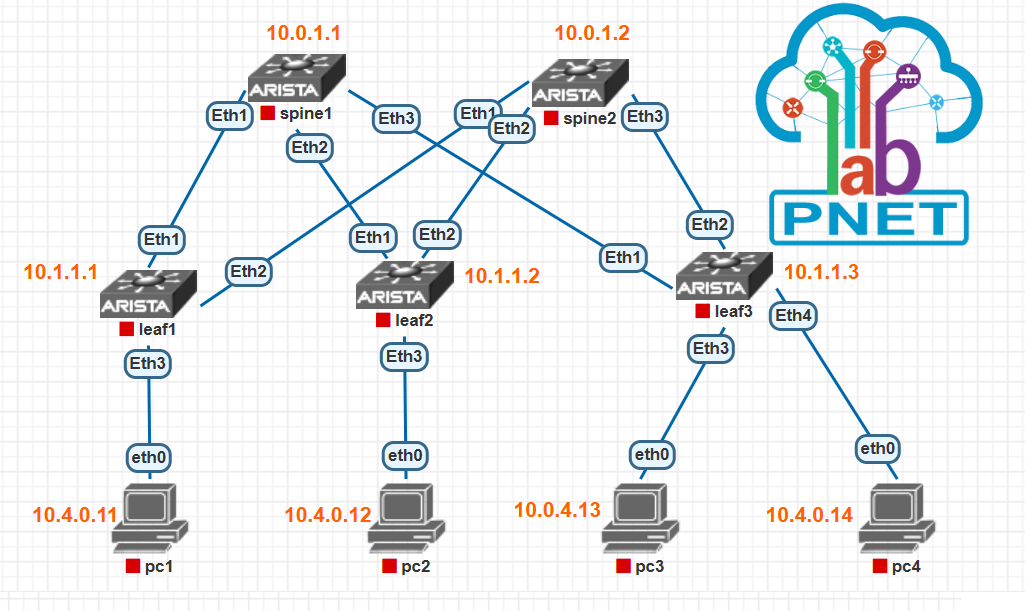
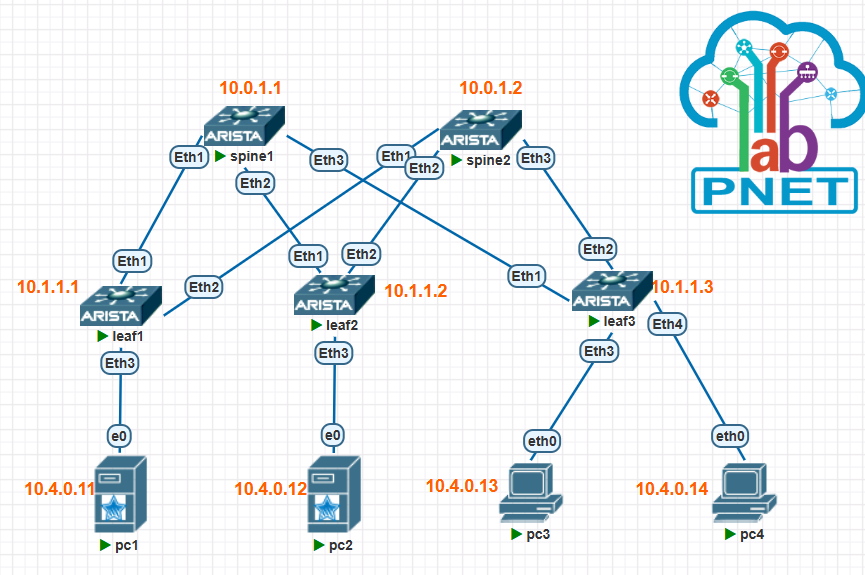
Решение hw04

Changed region(s): [[0.0, 0.0, 1.0, 0.9757], [0.4994, 0.3843, 0.5306, 0.4139]]

diff --git a/hw05/hw05.md b/hw05/hw05.md
@@ -102,28 +102,32 @@ ip routing
 !
 router bgp 65001
    router-id 10.0.1.1
-   maximum-paths 4
-   neighbor LEAF_PEERS peer group
-   neighbor LEAF_PEERS remote-as 65001
-   neighbor LEAF_PEERS next-hop-unchanged
-   neighbor LEAF_PEERS update-source Loopback1
-   neighbor LEAF_PEERS bfd
-   neighbor LEAF_PEERS ebgp-multihop 3
-   neighbor LEAF_PEERS route-reflector-client
-   neighbor LEAF_PEERS send-community extended
-   neighbor 10.1.1.1 peer group LEAF_PEERS
+   no bgp default ipv4-unicast
+   distance bgp 20 200 200
+   neighbor LEAF peer group
+   neighbor LEAF remote-as 65001
+   neighbor LEAF next-hop-unchanged
+   neighbor LEAF update-source Loopback1
+   neighbor LEAF bfd
+   neighbor LEAF ebgp-multihop 2
+   neighbor LEAF route-reflector-client
+   neighbor LEAF send-community extended
+   neighbor 10.1.1.1 peer group LEAF
    neighbor 10.1.1.1 remote-as 65101
-   neighbor 10.1.1.2 peer group LEAF_PEERS
+   neighbor 10.1.1.1 description leaf1
+   neighbor 10.1.1.2 peer group LEAF
    neighbor 10.1.1.2 remote-as 65102
-   neighbor 10.1.1.3 peer group LEAF_PEERS
+   neighbor 10.1.1.2 description leaf2
+   neighbor 10.1.1.3 peer group LEAF
    neighbor 10.1.1.3 remote-as 65103
+   neighbor 10.1.1.3 description leaf3
    !
    address-family evpn
-      neighbor LEAF_PEERS activate
-      neighbor LEAF_PEERS next-hop-unchanged
+      neighbor LEAF activate
 !
 router ospf 1
    router-id 10.0.1.1
+   bfd default
    passive-interface default
    no passive-interface Ethernet1
    no passive-interface Ethernet2
@@ -133,6 +137,7 @@ router ospf 1
 !
 end
 spine1#
+
   ```
 </details>
 
@@ -140,7 +145,7 @@ spine1#
   <summary>spine2 configuration</summary>
 
   ```cisco
- spine2#sh run
+spine2#sh run
 ! Command: show running-config
 ! device: spine2 (vEOS-lab, EOS-4.27.0F)
 !
@@ -189,24 +194,28 @@ ip routing
 !
 router bgp 65001
    router-id 10.0.1.2
-   maximum-paths 4
-   neighbor LEAF_PEERS peer group
-   neighbor LEAF_PEERS remote-as 65001
-   neighbor LEAF_PEERS next-hop-unchanged
-   neighbor LEAF_PEERS update-source Loopback1
-   neighbor LEAF_PEERS ebgp-multihop 3
-   neighbor LEAF_PEERS route-reflector-client
-   neighbor LEAF_PEERS send-community extended
-   neighbor 10.1.1.1 peer group LEAF_PEERS
+   no bgp default ipv4-unicast
+   distance bgp 20 200 200
+   neighbor LEAF peer group
+   neighbor LEAF remote-as 65001
+   neighbor LEAF next-hop-unchanged
+   neighbor LEAF update-source Loopback1
+   neighbor LEAF bfd
+   neighbor LEAF ebgp-multihop 2
+   neighbor LEAF route-reflector-client
+   neighbor LEAF send-community extended
+   neighbor 10.1.1.1 peer group LEAF
    neighbor 10.1.1.1 remote-as 65101
-   neighbor 10.1.1.2 peer group LEAF_PEERS
+   neighbor 10.1.1.1 description leaf1
+   neighbor 10.1.1.2 peer group LEAF
    neighbor 10.1.1.2 remote-as 65102
-   neighbor 10.1.1.3 peer group LEAF_PEERS
+   neighbor 10.1.1.2 description leaf2
+   neighbor 10.1.1.3 peer group LEAF
    neighbor 10.1.1.3 remote-as 65103
+   neighbor 10.1.1.3 description leaf3
    !
    address-family evpn
-      neighbor LEAF_PEERS activate
-      neighbor LEAF_PEERS next-hop-unchanged
+      neighbor LEAF activate
 !
 router ospf 1
    router-id 10.0.1.2
@@ -220,6 +229,7 @@ router ospf 1
 !
 end
 spine2#
+
   ```
 </details>
 
@@ -249,7 +259,7 @@ hostname leaf1
 spanning-tree mode mstp
 !
 vlan 100
-   name CLIENTS
+   name pc
 !
 interface Ethernet1
    description spine1
@@ -269,12 +279,14 @@ interface Ethernet3
    switchport access vlan 100
 !
 interface Loopback1
+   description UNDERLAY
    ip address 10.1.1.1/32
    ip ospf area 0.0.0.0
 !
 interface Management1
 !
 interface Vlan100
+   description pc
    ip proxy-arp
    ip address 10.4.0.1/16
 !
@@ -282,31 +294,32 @@ interface Vxlan1
    vxlan source-interface Loopback1
    vxlan udp-port 4789
    vxlan vlan 100 vni 100100
-   vxlan flood vtep 10.1.1.1 10.1.1.2 10.1.1.3
 !
 ip routing
 !
-arp 10.4.0.12 00:50:79:66:68:5d arpa
-!
 router bgp 65101
    router-id 10.1.1.1
-   maximum-paths 10
-   neighbor SPINE_PEERS peer group
-   neighbor SPINE_PEERS remote-as 65001
-   neighbor SPINE_PEERS update-source Loopback1
-   neighbor SPINE_PEERS bfd
-   neighbor SPINE_PEERS ebgp-multihop 2
-   neighbor 10.0.1.1 peer group SPINE_PEERS
-   neighbor 10.0.1.2 peer group SPINE_PEERS
-   redistribute connected
+   no bgp default ipv4-unicast
+   maximum-paths 4
+   neighbor SPINE peer group
+   neighbor SPINE remote-as 65001
+   neighbor SPINE update-source Loopback1
+   neighbor SPINE bfd
+   neighbor SPINE local-v4-addr 10.1.1.1
+   neighbor SPINE ebgp-multihop 4
+   neighbor SPINE send-community extended
+   neighbor 10.0.1.1 peer group SPINE
+   neighbor 10.0.1.1 description spine1
+   neighbor 10.0.1.2 peer group SPINE
+   neighbor 10.0.1.2 description spine2
    !
    vlan 100
       rd 10.1.1.1:100
-      route-target both 65001:100
+      route-target both 100:100100
       redistribute learned
    !
    address-family evpn
-      neighbor SPINE_PEERS activate
+      neighbor SPINE activate
 !
 router ospf 1
    router-id 10.1.1.1
@@ -319,7 +332,6 @@ router ospf 1
 !
 end
 leaf1#
-
   ```
 </details>
 
@@ -369,6 +381,7 @@ interface Ethernet3
    switchport access vlan 100
 !
 interface Loopback1
+   description UNDERLAY
    ip address 10.1.1.2/32
    ip ospf area 0.0.0.0
 !
@@ -386,26 +399,29 @@ interface Vxlan1
 !
 ip routing
 !
-arp 10.4.0.11 00:50:79:66:68:69 arpa
-!
 router bgp 65102
    router-id 10.1.1.2
-   maximum-paths 10
-   neighbor SPINE_PEERS peer group
-   neighbor SPINE_PEERS remote-as 65001
-   neighbor SPINE_PEERS update-source Loopback1
-   neighbor SPINE_PEERS bfd
-   neighbor SPINE_PEERS ebgp-multihop 2
-   neighbor 10.0.1.1 peer group SPINE_PEERS
-   neighbor 10.0.1.2 peer group SPINE_PEERS
+   no bgp default ipv4-unicast
+   maximum-paths 4
+   neighbor SPINE peer group
+   neighbor SPINE remote-as 65001
+   neighbor SPINE update-source Loopback1
+   neighbor SPINE bfd
+   neighbor SPINE local-v4-addr 10.1.1.2
+   neighbor SPINE ebgp-multihop 4
+   neighbor SPINE send-community extended
+   neighbor 10.0.1.1 peer group SPINE
+   neighbor 10.0.1.1 description spine1
+   neighbor 10.0.1.2 peer group SPINE
+   neighbor 10.0.1.2 description spine2
    !
    vlan 100
       rd 10.1.1.2:100
-      route-target both 65001:100
+      route-target both 100:100100
       redistribute learned
    !
    address-family evpn
-      neighbor SPINE_PEERS activate
+      neighbor SPINE activate
 !
 router ospf 1
    router-id 10.1.1.2
@@ -418,6 +434,7 @@ router ospf 1
 !
 end
 leaf2#
+
   ```
 </details>
 
@@ -467,6 +484,7 @@ interface Ethernet4
    switchport access vlan 100
 !
 interface Loopback1
+   description UNDERLAY
    ip address 10.1.1.3/32
    ip ospf area 0.0.0.0
 !
@@ -480,28 +498,32 @@ interface Vxlan1
    vxlan source-interface Loopback1
    vxlan udp-port 4789
    vxlan vlan 100 vni 100100
-   vxlan flood vtep 10.1.1.1 10.1.1.2 10.1.1.3
 !
 ip routing
 !
 router bgp 65103
    router-id 10.1.1.3
-   maximum-paths 10
-   neighbor SPINE_PEERS peer group
-   neighbor SPINE_PEERS remote-as 65001
-   neighbor SPINE_PEERS update-source Loopback1
-   neighbor SPINE_PEERS bfd
-   neighbor SPINE_PEERS ebgp-multihop 2
-   neighbor 10.0.1.1 peer group SPINE_PEERS
-   neighbor 10.0.1.2 peer group SPINE_PEERS
+   no bgp default ipv4-unicast
+   maximum-paths 4
+   neighbor SPINE peer group
+   neighbor SPINE remote-as 65001
+   neighbor SPINE update-source Loopback1
+   neighbor SPINE bfd
+   neighbor SPINE local-v4-addr 10.1.1.3
+   neighbor SPINE ebgp-multihop 4
+   neighbor SPINE send-community extended
+   neighbor 10.0.1.1 peer group SPINE
+   neighbor 10.0.1.1 description spine1
+   neighbor 10.0.1.2 peer group SPINE
+   neighbor 10.0.1.2 description spine2
    !
    vlan 100
       rd 10.1.1.3:100
-      route-target both 65001:100
+      route-target both 100:100100
       redistribute learned
    !
    address-family evpn
-      neighbor SPINE_PEERS activate
+      neighbor SPINE activate
 !
 router ospf 1
    router-id 10.1.1.3
@@ -519,21 +541,51 @@ leaf3#
 
 # Проверка сетевой связности.
 <details>
-  <summary>проверка соседства</summary>
+  <summary>проверка UNDERLAY (OSPF)</summary>
 
   ```cisco
+leaf1#sh ip ospf neighbor
+
+  ```
+  ```cisco
+leaf1#sh ip route ospf | inc Eth
+
+  ```
+  ```cisco
+leaf1#ping 10.1.1.3
+
+  ```
+  ```cisco
+leaf1#sh bfd peers
+
   ```
 </details>
 
 <details>
-  <summary>динамические маршруты</summary>
+  <summary>проверка OVERLAY BGP</summary>
 
   ```cisco
+spine1#sh bgp evpn summary
+
+  ```
+  ```cisco
+leaf1#sh bgp evpn summary
+  ```
+
+  ```cisco
+leaf1#sh bgp evpn summary
+  ```
+  ```cisco
+show vxlan vni
+  ```
+  ```cisco
+spine1#show bgp evpn route-type mac-ip
+leaf1#show bgp evpn route-type mac-ip
   ```
 </details>
 
 <details>
-  <summary>Проверка 1</summary>
+  <summary>Проверка 3</summary>
 
   ```cisco
   ```
